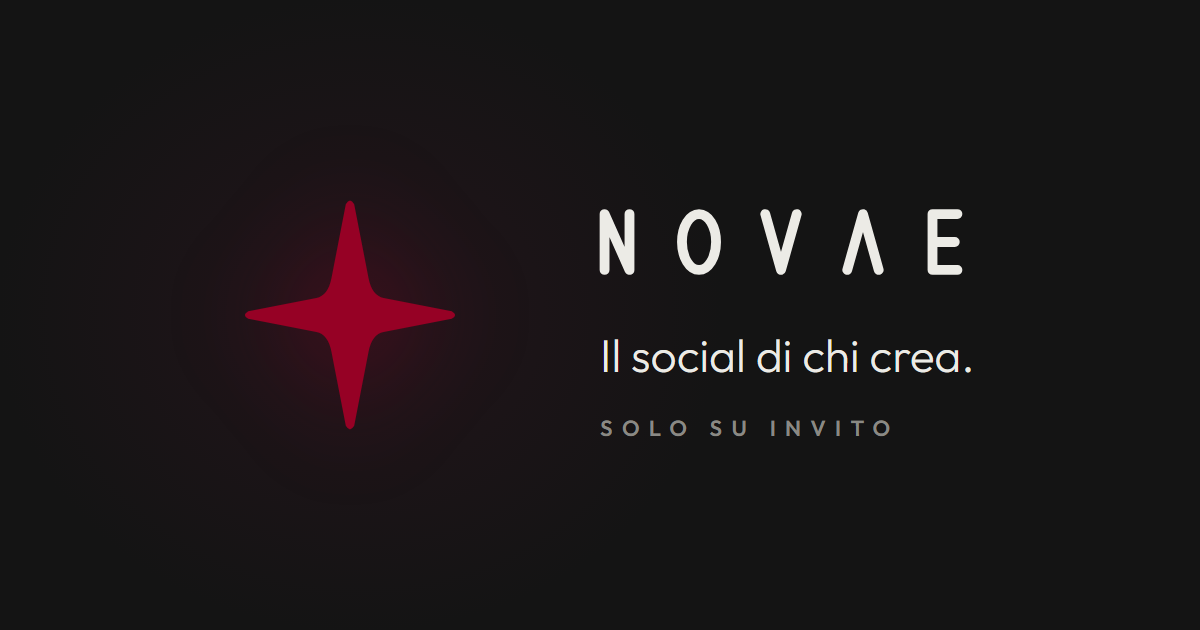
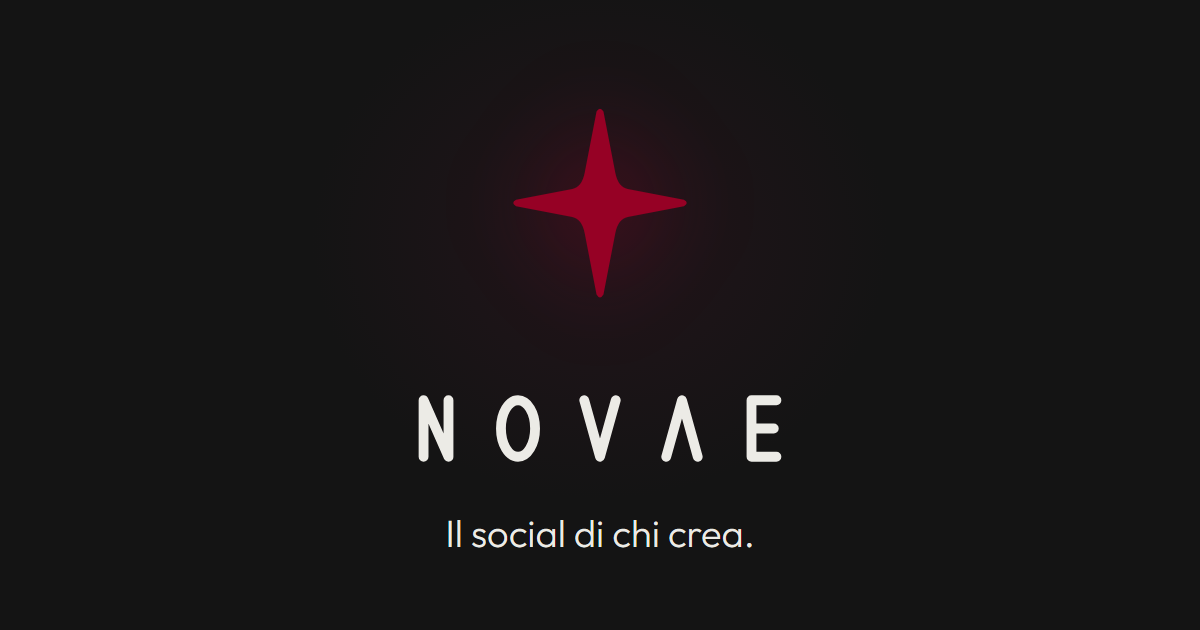
Anteprima dei link centrata, per il ritaglio quadrato di WhatsApp

diff --git a/docs/social/anteprima-link.html b/docs/social/anteprima-link.html
@@ -1,20 +1,18 @@
 <!doctype html><meta charset="utf-8">
-<!-- Link preview image (Open Graph, 1200x630): screenshot this page at 1200x630 into assets/app/anteprima-link.png -->
+<!-- Link preview image (Open Graph, 1200x630): screenshot this page at 1200x630 into assets/app/anteprima-link.png.
+     Everything sits in the central 630x630 square, because WhatsApp often shows only a square crop of the middle. -->
 <link href="https://fonts.googleapis.com/css2?family=Outfit:wght@300;600&display=swap" rel="stylesheet">
 <style>
 html,body{margin:0;background:#141414}
-.card{position:relative;width:1200px;height:630px;overflow:hidden;background:radial-gradient(ellipse 42% 70% at 30% 50%,#22141a 0%,#141414 72%);color:#ecebe6;font-family:Outfit,sans-serif}
-.star{position:absolute;left:150px;top:115px;width:400px;height:400px;filter:drop-shadow(0 0 50px rgba(150,1,37,.4))}
-.txt{position:absolute;left:600px;top:0;bottom:0;display:flex;flex-direction:column;justify-content:center;gap:30px}
-.word{width:420px;display:block;margin-left:-29px}
-.tag{margin:0;font-size:46px;font-weight:300}
-.kick{margin:0;font-size:22px;font-weight:600;letter-spacing:.42em;text-transform:uppercase;color:#8a8984}
+.card{position:relative;width:1200px;height:630px;overflow:hidden;background:radial-gradient(ellipse 32% 55% at 50% 38%,#22141a 0%,#141414 75%);color:#ecebe6;font-family:Outfit,sans-serif;display:flex;flex-direction:column;align-items:center}
+.star{margin-top:38px;width:330px;height:330px;filter:drop-shadow(0 0 46px rgba(150,1,37,.45))}
+.word{margin-top:6px;width:420px;display:block}
+.tag{margin:26px 0 0;font-size:38px;font-weight:300}
+.sq{position:absolute;left:285px;top:0;width:630px;height:630px;outline:2px dashed lime;display:none}
 </style>
 <div class="card">
   <img class="star" src="novae-stella-trasparente.svg" alt="">
-  <div class="txt">
-    <img class="word" src="../../assets/svg/wordmark.svg" alt="NOVAE">
-    <p class="tag">Il social di chi crea.</p>
-    <p class="kick">Solo su invito</p>
-  </div>
+  <img class="word" src="../../assets/svg/wordmark.svg" alt="NOVAE">
+  <p class="tag">Il social di chi crea.</p>
+  <div class="sq"></div>
 </div>

diff --git a/index.html b/index.html
@@ -11,7 +11,7 @@
   <meta property="og:title" content="NOVAE · il social di chi crea">
   <meta property="og:description" content="Il social su invito dove gli artisti condividono le loro opere.">
   <meta property="og:url" content="https://xandre04.github.io/novae/">
-  <meta property="og:image" content="https://xandre04.github.io/novae/assets/app/anteprima-link.png">
+  <meta property="og:image" content="https://xandre04.github.io/novae/assets/app/anteprima-link.png?2">
   <meta property="og:image:width" content="1200">
   <meta property="og:image:height" content="630">
   <meta property="og:image:alt" content="La stella rossa di NOVAE con la scritta: il social di chi crea, solo su invito">
